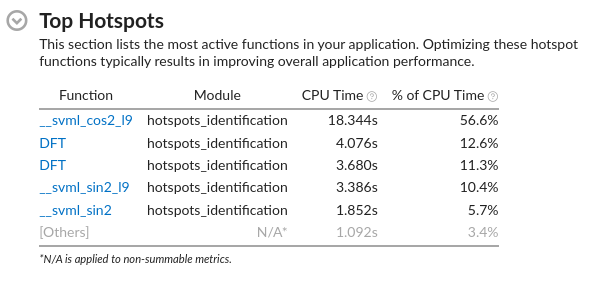
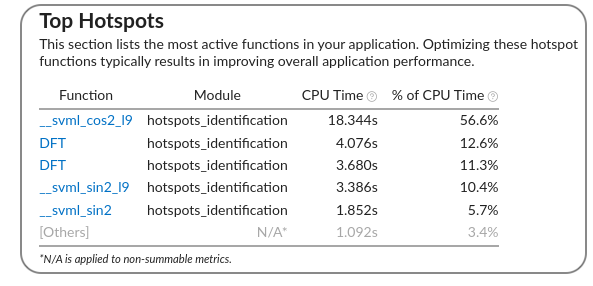
Parallelization: comparison of the performance metrics

diff --git a/5137057-report/chapters/hotspots_analysis.tex b/5137057-report/chapters/hotspots_analysis.tex
@@ -79,8 +79,11 @@ S(p) = \frac{1}{f_s + \frac{1-f_s}{p}} \Big|_{f_s=0.00006} =  \frac{1}{0.00006 +
 \paragraph{Note:} the smaller the serial fraction $f_s$, the higher the potential speedup achievable by parallelizing the main loop of the DFT.
 
 \paragraph{Note: in the real case, the speedup is not linear.}
+In particular, from the parallelization examples presented in Chapter~\ref{sec:parallelization}, the speedup is approximately linear up to 8 threads; beyond this point, it deviates from linear behavior.
 
 \subsection{Compilation}
+Since the Intel(R) C++ Compiler Classic (ICC) is deprecated and was removed from product release in the second half of 2023. The Intel(R) oneAPI DPC++/C++ Compiler (ICX) was used to performe the analysis.\\
+\\
 To identify the optimal sequential compilation strategy, I conduced testing across multiple Intel compiler variants (\texttt{ICC} and \texttt{ICX}), focusing on the vectorization report provided by the flag \texttt{-qopt-report}.\\
 The program was compiled using the Intel compiler \texttt{ICX} with the following command (more details are provided in the \texttt{Makefile.seq}):
 \begin{verbatim}
@@ -146,12 +149,12 @@ The measurements were performed using two methods: \textbf{Manually} (using \tex
     \includegraphics[width=0.8\textwidth]{assets/hotspots/top_hotspots_vtune.png}
 \end{center}
 
-\subsection{Conclusion}
+\subsection{Conclusions}
 The main hotspot is the DFT() function and its inverse IDFT(), which together account for over 99,05\% of the total execution time. All other functions have negligible impact. This indicates that \textbf{parallelization and vectorization efforts should focus on the double loop inside DFT()}.
 \\
 \\
 \noindent
-The main hotspot is the loop contained in lines 72-80 (source: \texttt{src/omp\_homework.c}). The dominant operations contributing to the algorithm's computational intensity are the \texttt{sin()} and \texttt{cos()} trigonometric functions, which account for the majority of the execution time, as shown in the figure.
+\textbf{The main hotspot is the loop contained in lines 72-80 (source: \texttt{src/omp\_homework.c})}. The dominant operations contributing to the algorithm's computational intensity are the \texttt{sin()} and \texttt{cos()} trigonometric functions, which account for the majority of the execution time, as shown in the following code.
 
 \begin{figure}[ht]
     \centering

diff --git a/5137057-report/chapters/parallelization.tex b/5137057-report/chapters/parallelization.tex
@@ -1,2 +1,80 @@
 \newpage
 \section{Parallelization}
+\label{sec:parallelization}
+
+\noindent
+\begin{minipage}[t]{0.47\textwidth} % Colonna sinistra
+    %\centering
+
+    Ciclo \texttt{for} parallelizzato con OpenMP utilizzando \texttt{private(n)} per rendere ogni thread indipendente
+
+    \begin{lstlisting}[basicstyle=\ttfamily\scriptsize]
+#pragma omp parallel for private(n)
+for (k=0 ; k<N ; k++)
+{
+    double Xr_temp = 0.0;
+    double Xi_temp = 0.0;
+
+    for (n=0 ; n<N ; n++)  {
+        Xr_temp += ...
+        Xi_temp += ...
+    }
+
+    Xr_o[k] = Xr_temp;
+    Xi_o[k] = Xi_temp;
+}
+    \end{lstlisting}
+    
+    \vspace*{0.7cm}
+
+    \centerline{\textbf{Execution time}}
+    \includegraphics[width=\linewidth]{assets/parallelization/omp1_times.png}
+
+    \vspace{0.5cm}
+
+    \centerline{\textbf{Speedup}}
+    \includegraphics[width=\linewidth]{assets/parallelization/omp1_speedups.png}
+    
+    \vspace{0.5cm}
+    
+    \centerline{\textbf{Efficiency}}
+    \includegraphics[width=\linewidth]{assets/parallelization/omp1_efficiencies.png}
+    
+\end{minipage}
+\hfill
+\begin{minipage}[t]{0.47\textwidth} % Colonna destra
+    %\centering
+
+    Ciclo \texttt{for} parallelizzato con OpenMP usando \texttt{reduction} per combinare i risultati dei thread.
+
+    \begin{lstlisting}[basicstyle=\ttfamily\scriptsize]   
+int k, n;
+for (k=0 ; k<N ; k++)
+{
+    double Xr_temp = 0.0;
+    double Xi_temp = 0.0;
+
+#pragma omp parallel for reduction(+:Xr_temp, Xi_temp)    
+    for (n=0 ; n<N ; n++)  {
+        Xr_temp += ...
+        Xi_temp += ...
+    }
+
+Xr_o[k] = Xr_temp;
+Xi_o[k] = Xi_temp;
+}
+    \end{lstlisting}
+
+    \centerline{\textbf{Execution time}}
+    \includegraphics[width=\linewidth]{assets/parallelization/omp2_times.png}
+
+    \vspace{0.5cm}
+
+    \centerline{\textbf{Speedup}}
+    \includegraphics[width=\linewidth]{assets/parallelization/omp2_speedups.png}
+    
+    \vspace{0.5cm}
+    
+    \centerline{\textbf{Efficiency}}
+    \includegraphics[width=\linewidth]{assets/parallelization/omp2_efficiencies.png}
+\end{minipage}

diff --git a/5137057-report/chapters/architectures.tex b/5137057-report/chapters/architectures.tex
@@ -21,11 +21,8 @@ For this project I have used two workstation, my personal one and the workstatio
     \item \textbf{Profiling Tools}: Intel VTune Profiler, Intel Advisor
 \end{itemize}
 
-\noindent
+%\noindent
 To use the Intel oneAPI tools, the environment was loaded with:
 \begin{verbatim}
-    source /opt/intel/oneapi/setvars.sh
+        source /opt/intel/oneapi/setvars.sh
 \end{verbatim}
-
-%\noindent
-\paragraph{Compiler:} since the Intel(R) C++ Compiler Classic (ICC) is deprecated and was removed from product release in the second half of 2023. The Intel(R) oneAPI DPC++/C++ Compiler (ICX) was used to performe the analysis.

diff --git a/5137057-report/chapters/vectorization.tex b/5137057-report/chapters/vectorization.tex
@@ -2,6 +2,8 @@
 \section{Vectorization}
 
 % TODO:
-Brief discussion about possible vectorization issues provided by the Intel compiler report.
-
-TODO: aggiungere il flag \texttt{-open-simd} alla compilazione e vedere se cambia qualcosa
+\begin{itemize}
+    \item TODO: Brief discussion about possible vectorization issues provided by the Intel compiler report.
+    \item TODO: Aggiungere il flag \texttt{-open-simd} alla compilazione e vedere se cambia qualcosa
+    \item TODO: altro???
+\end{itemize}

diff --git a/5137057-report/report.tex b/5137057-report/report.tex
@@ -5,7 +5,7 @@
 \usepackage{graphicx}
 \usepackage{amsmath}
 \usepackage{amssymb}
-\usepackage{hyperref}
+\usepackage[hidelinks]{hyperref}
 \usepackage{caption}
 \usepackage{geometry}
 \usepackage{float}
@@ -13,7 +13,7 @@
 \usepackage{booktabs}
 \usepackage{caption}
 \usepackage{listings}
-\usepackage{xcolor}  % per i colori
+\usepackage{xcolor}
 
 \lstset{
     language=C,
